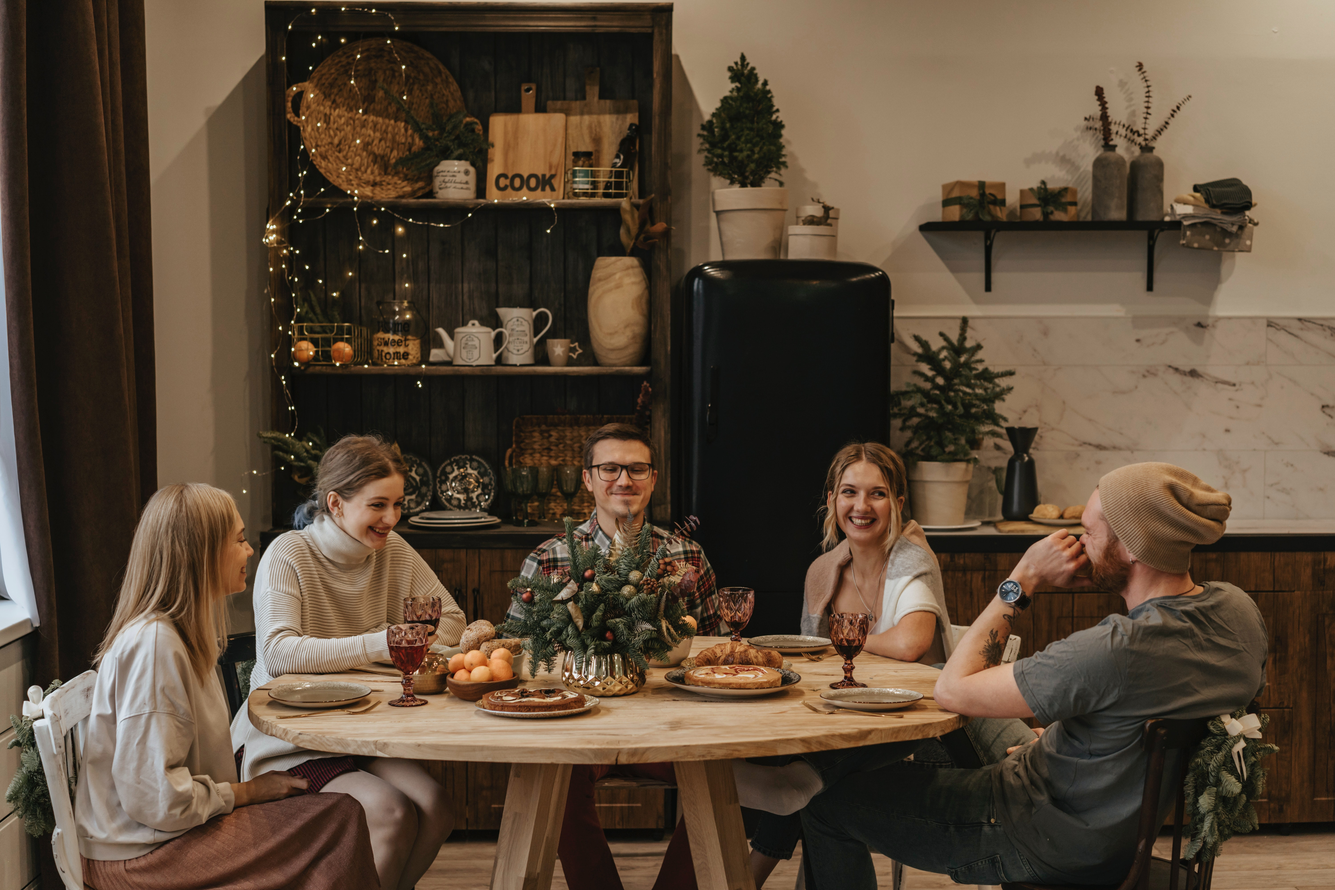
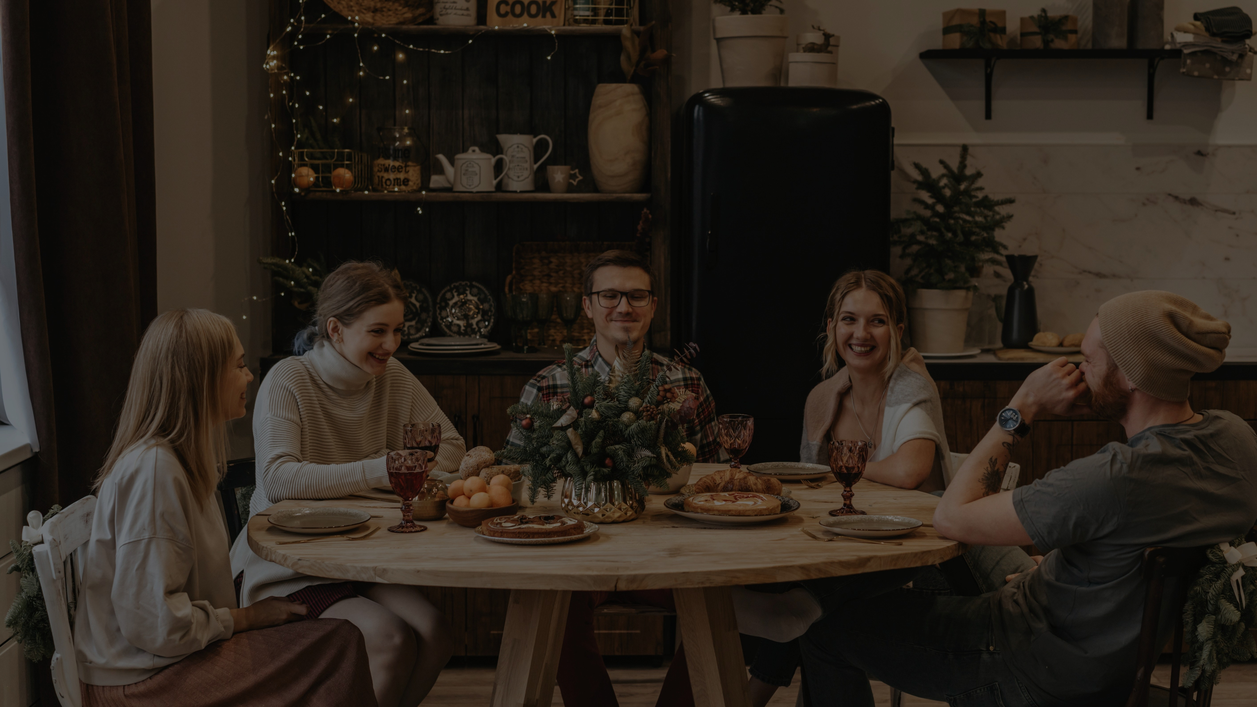
Homepage complete
I need the buttons to popup a login form.

diff --git a/public/css/pages/login.css b/public/css/pages/login.css
@@ -3,9 +3,9 @@
 html,
 body {
   box-sizing: border-box;
+  height: 100%;
   margin: 0;
   padding: 0;
-  background-color: #e1fff4;
 }
 
 /* top navbar */
@@ -14,7 +14,7 @@ a,
 button {
   font-family: "Poppins", sans-serif;
   font-size: 1rem;
-  color: black;
+  color: white;
   text-decoration: none;
 }
 
@@ -24,7 +24,7 @@ header {
   justify-content: flex-end;
   align-items: center;
   padding: 5px 10%;
-  background-color: rgb(255, 255, 255);
+  background-color: rgba(0, 0, 0, 0);
 }
 
 .logo {
@@ -59,10 +59,37 @@ button {
   border-radius: 0.6rem;
   cursor: pointer;
   transition: all 0.5s ease 0s;
-  float: right;
   margin-left: 1.6rem;
-  color: white;
+  color: #333;
 }
 button:hover {
   background-color: #00cc81;
+}
+
+/* background */
+.bg {
+  background-image: url("/public/images/cookingfriends/group-table.jpg");
+  height: 100%;
+  width: 100%;
+  background-position: center;
+  background-repeat: no-repeat;
+  background-size: cover;
+}
+
+/* connect btn */
+.connect {
+  display: flex;
+  flex-direction: column;
+  justify-content: center;
+  align-items: center;
+  position: absolute;
+  top: 70%;
+  left: 37%;
+}
+
+h1 {
+  font-family: "Poppins", sans-serif;
+  font-style: italic;
+  text-align: center;
+  color: #00ffa2;
 }

diff --git a/login.html b/login.html
@@ -11,17 +11,24 @@
 
   <body>
     <!-- top nav bar -->
-    <header class="top-nav-bar">
-      <img src="/public/images/logo/logo-title.png" class="logo" />
-      <nav>
-        <ul class="nav-links">
-          <li><a href="#">Products</a></li>
-          <li><a href="#">Learn</a></li>
-          <li><a href="#">Safety</a></li>
-          <li><a href="#">Support</a></li>
-        </ul>
-      </nav>
-      <a href="#"><button>LOG IN</button></a>
-    </header>
+    <div class="bg">
+      <header class="top-nav-bar">
+        <img src="/public/images/logo/logo-title.png" class="logo" />
+        <nav>
+          <ul class="nav-links">
+            <li><a href="#">Products</a></li>
+            <li><a href="#">Learn</a></li>
+            <li><a href="#">Safety</a></li>
+            <li><a href="#">Support</a></li>
+          </ul>
+        </nav>
+        <a href="#"><button>LOG IN</button></a>
+      </header>
+    </div>
+    <!-- Connect btn -->
+    <div class="connect">
+      <h1>Find your culinary friend!</h1>
+      <a class="cnct-btn" href="#"><button>Connect</button></a>
+    </div>
   </body>
 </html>
